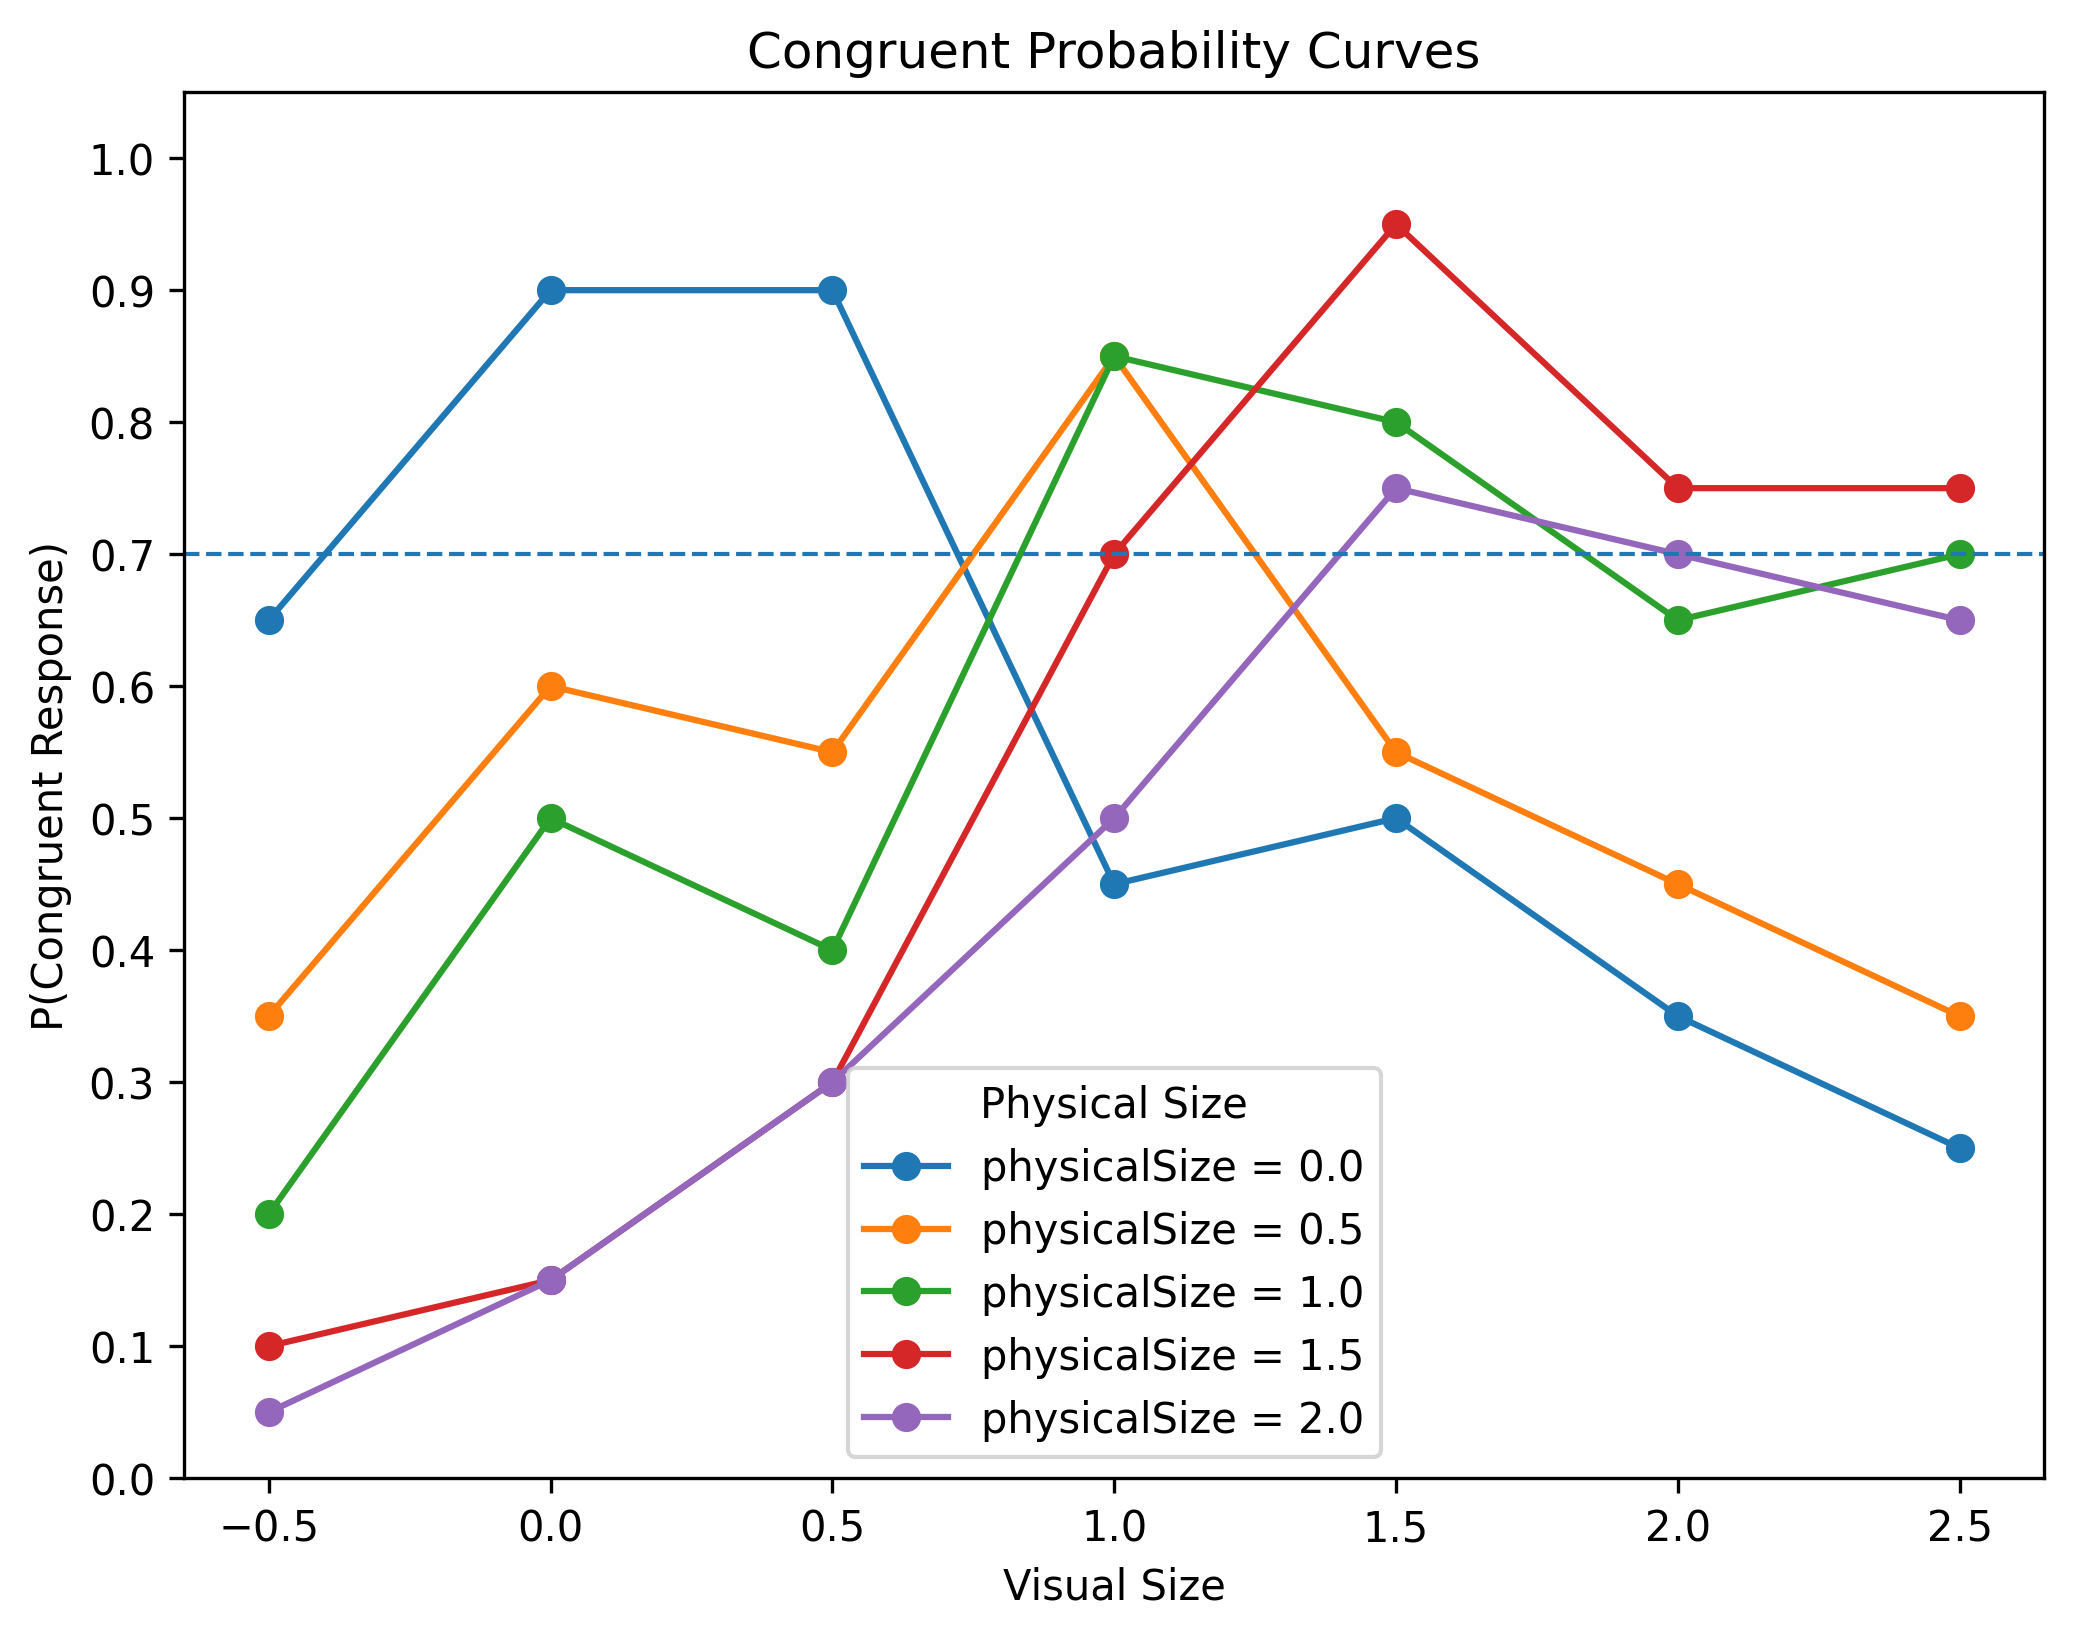
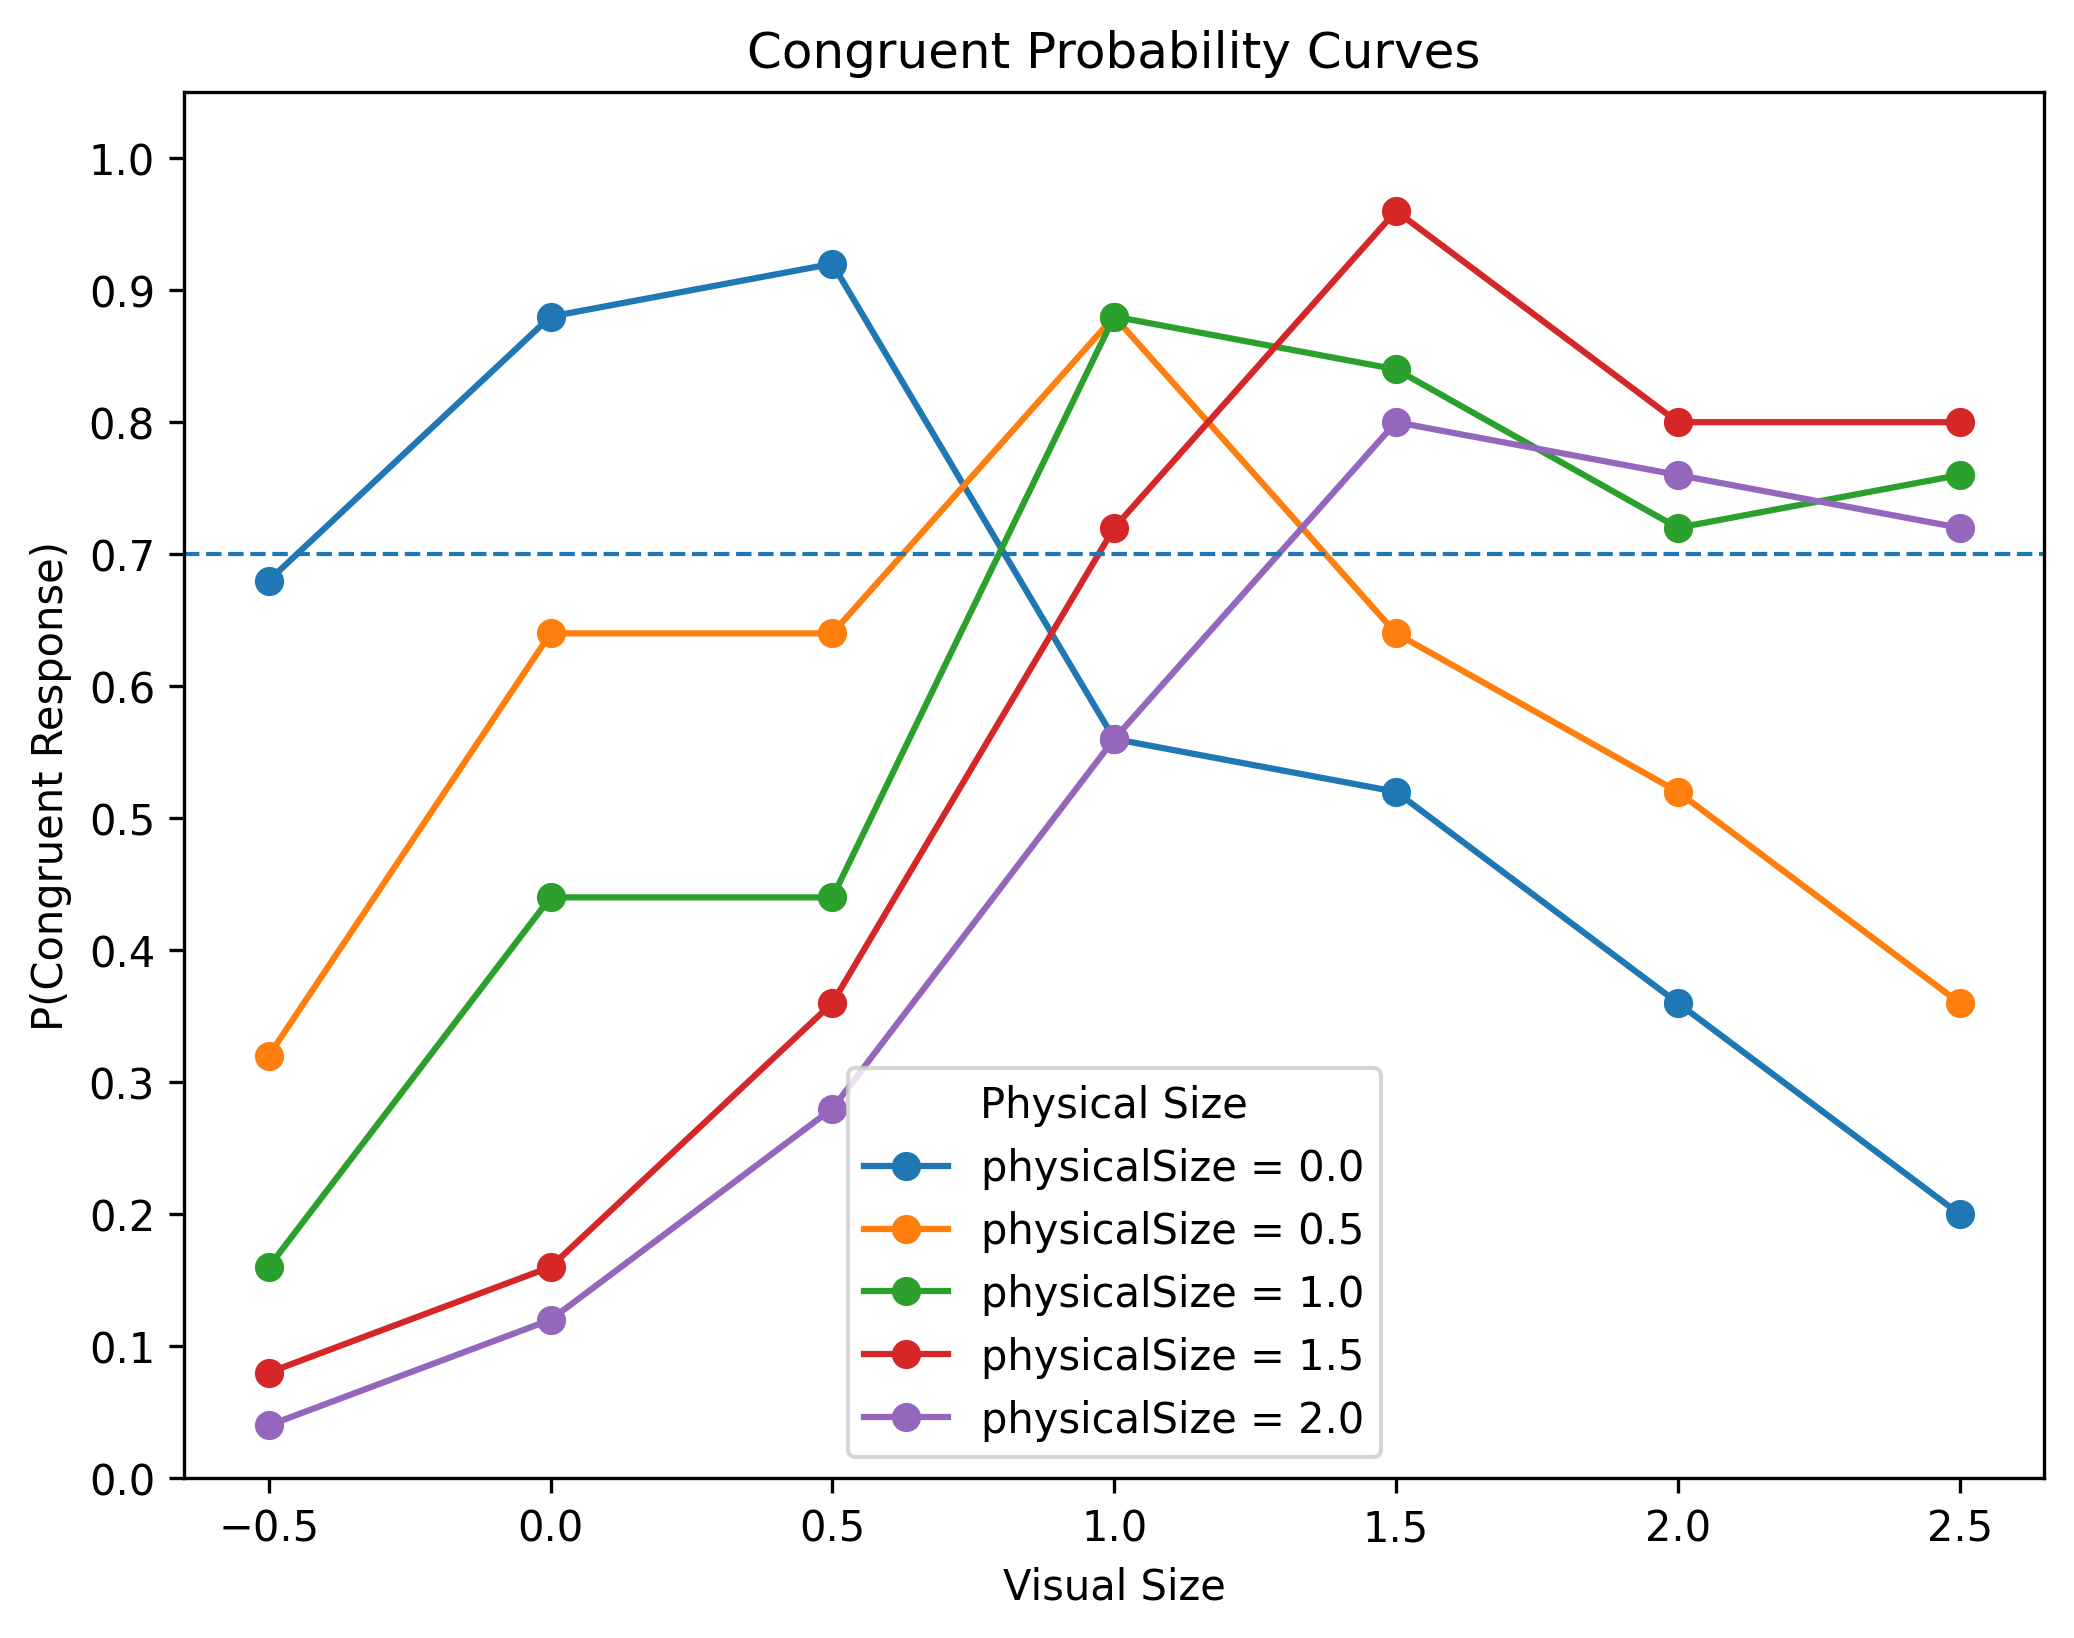
P5

diff --git a/Assets/data/congruency/study1_processor.py b/Assets/data/congruency/study1_processor.py
@@ -5,7 +5,7 @@ import os
 import numpy as np
 
 # Load data
-pids = [1, 2, 3, 4]
+pids = [1, 2, 3, 4, 5]
 
 all_trials = []
 all_data = []
